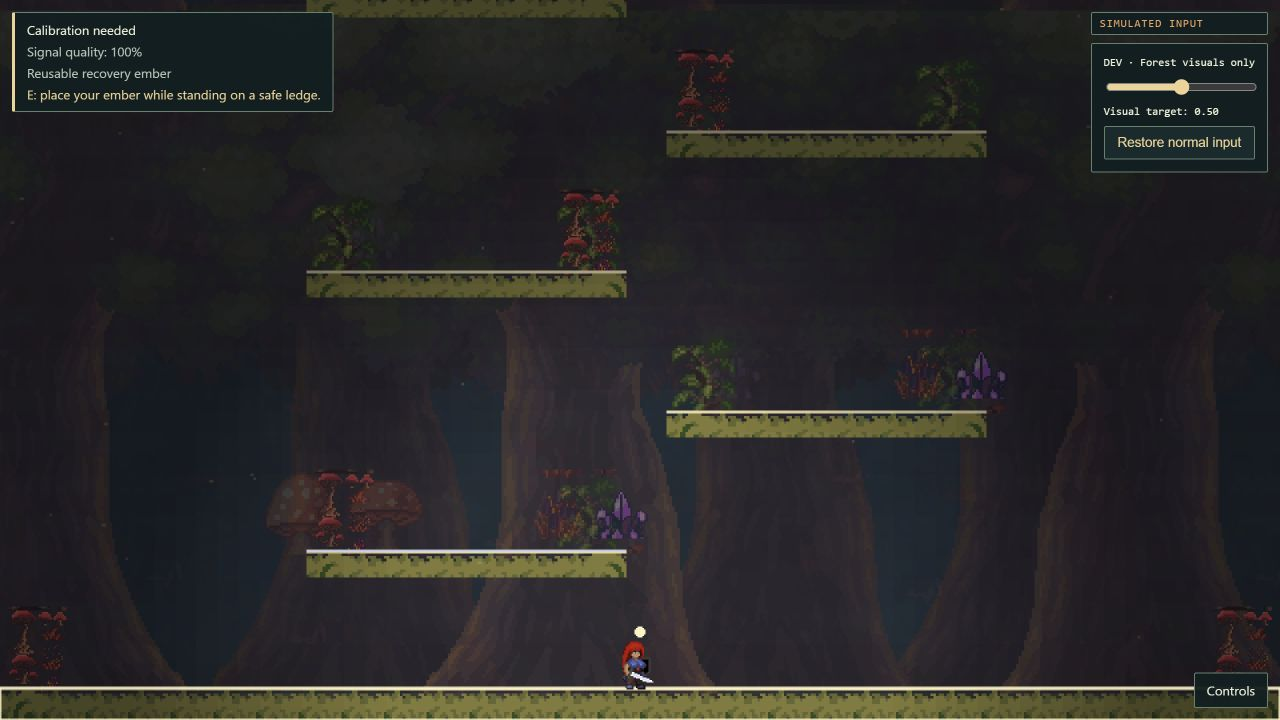
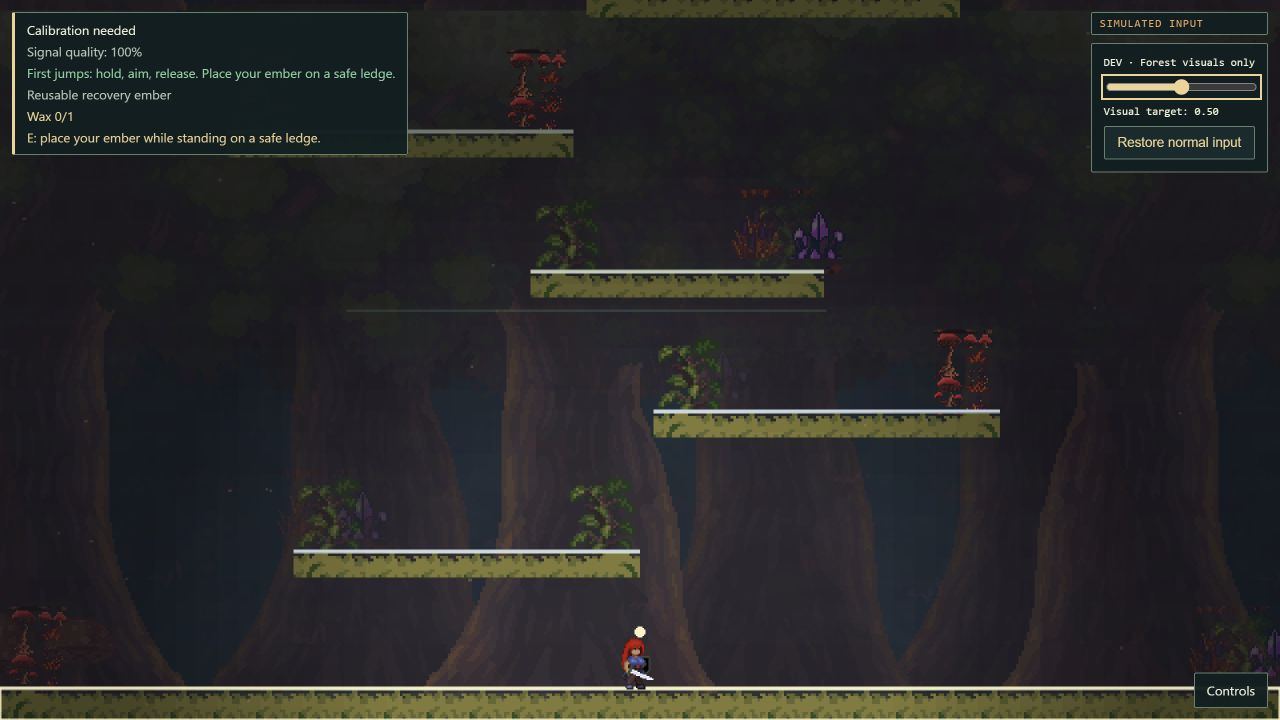
docs(forest): record visual QA, production checks and handoff

diff --git a/docs/agent-reports/20261115-0210-codex-forest-overhaul.md b/docs/agent-reports/20261115-0210-codex-forest-overhaul.md
@@ -1,0 +1,70 @@
+# After-job report: forest visual overhaul
+
+- Agent: codex (Neil Pawar / LordGlichter)
+- Branch and PR: codex/forest-overhaul, https://github.com/srishanb/hackthenest-chooms/pull/53
+- Phase and plan: docs/plans/forest-overhaul.md; explicit implementation request from Neil; D-22 advisory approval policy, no other lane owner's approval asserted.
+- Started and finished: existing claim/implementation commits through final QA approximately 02:10 Eastern, 2026-11-15; exact start time not recorded in this report.
+
+## 1. What I believe is complete
+
+| Acceptance test (from the plan) | Result | Confidence |
+|---|---|---|
+| Selected local art, source inventory, exact license and credits | Pass: 18 used textures, inventory and notices | High |
+| Forest terrain/scenery with unchanged collision geometry | Pass: renderer-only skins, same boxes and camera; moving ledges followed | High |
+| Continuous reversible corruption and neutral/settings policy | Pass: existing exponential effects engine, isolated dev override | High |
+| Coherent Ruby idle/run/charge/rise/fall/land, feet alignment | Pass: one inspected 64x48 set, original body untouched | High |
+| Existing UI palette/focus/responsive controls preserved | Pass: tutorial, pause, settings and 390x844 fit checked | High |
+| Movement/recovery/save flows remain functional | Pass: native keyboard jump/fall, E place/pickup, R return and reload | Medium |
+| Calm/quarter/half/three-quarter/full screenshots and performance | Pass: same camera/spawn; ~120 FPS observed | High for observed machine only |
+| Live hardware / complete run / other GPUs | Not attempted: no sensor session or target hardware available | Low |
+
+## 2. How I verified it
+
+| Check | Command or steps | Actual result |
+|---|---|---|
+| Typecheck and tests | npm run check, Bash on process PATH | Exit 0; 42 files, 277 tests |
+| Production bundle | npm run build | Exit 0; existing vendor/pieeg.js non-module warning |
+| Current level reachability | npm run check:levels | Exit 0; all five tutorial sections reachable |
+| Asset integrity | Compare SHA-256 to public/assets/forest/inventory.json | All 18 pass; 155,235 bytes |
+| Physics/signal preservation | git diff origin/main -- src/game/player src/game/save.ts src/signal src/content/sections | No task changes after upstream integration |
+| Visuals | In-app browser, native controls, screenshots at 1280x720 | Distinct continuous calm/corrupt states, visible character/landing rims |
+| Recovery/persistence | Place ember on first ledge, walk/fall, R, reload, E pickup/reload | Returned/restored ledge position; pickup clears saved anchor |
+| Accessibility/settings | Focus sliders; zero strength; reduced motion; pause/resume; 390x844 settings | Neutral 0.2; controls fit; diagnostic hidden during modal flows |
+| Performance | Phaser actualFps at calm/full corruption | 119.8–120.3 FPS (~8.3 ms cadence), no GPU profile |
+
+**Not verified:** Live Octopus/PiEEG, target demo hardware, other browser/GPU, complete timed traversal/finish interaction, audio listening, production deployment. Existing unit tests cover recovery, finish and environmental behavior; no claim that these replace a full human run.
+
+## 3. Problems, workarounds and dead ends
+
+- Dark Forest lacked a local license file. Verified both packs as downloads on the publisher's official Ancient Forest page under its project-use license; preserved evidence and the exact Ancient local notice. Imported only used textures.
+- Initial decorative dark plants were too tall; fit them to their healthy partner's height. End caps now repeat at the same 2x tile scale instead of stretching.
+- Diagnostic panel overlapped narrow settings; hide it while existing menus/dialogs are open. Recaptured responsive proof.
+- Windows tests initially lacked Bash on PATH. Added installed Git Bash to the test process PATH; no repository dependency/tooling change.
+- Native browser keyboard input was required for held gameplay keys; focusing body with a locator did not drive the intended input. Verified through the actual root keyboard route.
+- Upstream visibility/calibration and later wax/tutorial work merged during implementation. Combined scene hooks, preserved their modules, and attached forest skins/props to current simulated platform positions.
+- A local merge-resolution helper used unavailable `python` instead of installed `py`, leaving conflict markers in one local merge commit. The check immediately caught this; a new corrective commit removed them, and the complete check/build then passed. No history was rewritten and no broken intermediate state was pushed as ready.
+
+## 4. Deviations from the plan
+
+- Ruby uses 1x source pixels to fit the existing 24x36 collider; scenery uses 2x. No gameplay body expansion.
+- Added a minimal forest.syncPlatforms presentation hook for newly merged moving ledges; retained upstream green motion guide, ice rims and wind arrows. No environmental gameplay duplicated.
+- Source inventory metadata is committed for reuse; original packs remain in Downloads and are not published wholesale.
+
+## 5. Changes
+
+- Files changed: see PR diff. Notable: src/game/forest/*, forest.config.ts, effects.config.ts, BootScene/ClimbScene minimal hooks, world-view, existing UI tokens/styles/source-badge helper, public assets, CREDITS and docs/visual-design.md.
+- Contract/config-schema change: one forestCorruption EffectId/key, in its own small contract/config commit. All effect callers typecheck. Reuses existing engine and stores; no signal contract change.
+- New dependencies requested: None.
+- Edits outside Neil's lane: game presentation and minimal scene/preload integration; UI styling/dev-only helper; shared EffectId. Required by explicit overhaul request, overlaps recorded in plan and PR. No signal-owned debug overlay changes.
+- INDEX.md updated for new exports: Yes, game and UI.
+
+## 6. Follow-ups and questions for humans
+
+- [ ] Team: play a full run on the demo laptop; inspect moving ledges, wind/ice, finish/retry and recovery with the final team's build.
+- [ ] Srishan/team: verify a supervised live sensor session; no claim of live-input testing here.
+- [ ] Reviewer: review/merge PR #53; branch is preserved and no self-merge performed.
+
+## 7. Can a teammate explain this?
+
+The forest is a separate visual layer around our existing platform boxes and player. The same bounded effects engine gently blends healthy trees and plants into decayed scenery as valid intensity changes, while invalid input returns to a neutral look. A clearly labeled development slider changes only that appearance, so we can demonstrate it without changing recovery, movement or sensor processing.
+Production smoke check: built preview loaded cleanly with forestDemo=1, zero diagnostic panels, absent DEV attributes, no browser errors. Saved production.png. Both temporary PORT 3015 dev/preview servers stopped afterward; the original user's server was not touched.

diff --git a/docs/visual-design.md b/docs/visual-design.md
@@ -29,7 +29,7 @@ Lukya Forge: https://lukyaforge.itch.io/ancientforest . Ancient Forest 1.7 and D
 
 ## Cached source inventory
 
-The source PNG inventory was inspected once. Counts: Ancient 82, Dark 79. Selected mappings above are authoritative for this implementation; full source inventory is in the task scratch folder, not shipped.
+The source PNG inventory was inspected once. Counts: Ancient 82, Dark 79. Selected mappings above are authoritative for this implementation; the complete filename/dimension inventory is cached in docs/forest-source-inventory.json (metadata only; source packs are not shipped).
 
 ## Rendering, animation and policy
 
@@ -50,4 +50,20 @@ The normal source badge continues to identify simulator/live/replay/ordinary ass
 
 ## Integration overlaps
 
-Protected-visibility PR #51 merged during implementation; merged it normally and preserved its module/create/update hooks. Calibration-screen PR #52 merged and is preserved. Wax PR #50 is owned elsewhere: do not duplicate or alter its gameplay. Final sync/check details are recorded in the task report. No level data, physics modules, saves, ember logic or signal algorithms are edited.
+Protected-visibility PR #51 merged during implementation; merged it normally and preserved its module/create/update hooks. Calibration-screen PR #52 merged and is preserved. Wax/tutorial PR #50 also merged during final QA. Its authored motion, wind, ice, lesson copy, wax rewards and collision code are preserved. Forest tile/cap/prop positions now follow the existing simulated platform boxes; moving/ice rims and wind cues remain authoritative. Final sync/check details are recorded in the task report. No level data, physics modules, saves, ember logic or signal algorithms are edited.
+
+## Validation and screenshots
+
+- Final integration baseline: origin/main 2b275c8, including protected visibility (#51), calibration (#52), replay clock (#54), and tutorial/wax rewards (#50). No changes relative to that baseline in movement, collisions, section data, saves, recovery or signal processing.
+- `npm run check`: 42 test files / 277 tests pass, including five focused forest policy/determinism/frame-rate tests. `npm run build` passes. Existing vendor/pieeg.js non-module warning remains. `npm run check:levels`: all five current tutorial sections reachable.
+- SHA-256 inventory audit passes for all 18 imported PNGs (155,235 bytes). Resources load from local assets; no new runtime network integration or dependencies.
+- Browser QA at 1280x720: real keyboard walk/charge/jump/fall/land, E placement/pickup, R return to an ember on a ledge, and reload restoring its saved position. Controls tutorial, pause/resume, settings focus and sliders work. At 390x844 the settings fit with keyboard controls intact; the dev panel hides behind menus/dialogs to avoid overlap.
+- Effect-strength zero returns the visual row to neutral 0.2. Reduced motion stops atmospheric drift and preserves smooth color interpolation. Restoring normal input visibly removes the override. Unit checks cover invalid/fixed/zero-strength policy, independent preview behavior, 30/60/144 Hz recovery and alternating-target smoothing.
+- Available-machine observed FPS: 119.8–120.3 at calm/full corruption (roughly 8.3 ms frame cadence). This is Phaser's loop FPS, not a GPU timing/profile or target-hardware guarantee. Scenery is bounded at 72 prop pairs and 24 spores; textures load once.
+- Screenshots in `docs/screenshots/forest/`: calm, quarter, half, three-quarter, corrupted share the spawn/camera location; a moving ledge may occupy different points on its authored cycle. Pause, settings, mobile-settings and tutorial document existing UI flows. Ember-return shows the successful ledge recovery/reload before the tutorial/wax integration; those recovery modules are unchanged.
+
+## Known limits
+
+No live PiEEG/headset session, other GPU/browser, full timed climb, audio listening pass, or target demo laptop was tested. The current title/start flow remains the existing one; no new title/death screen was invented. Selected Dark Forest plants use compatible height fitting rather than exact paired animation sheets. Ruby uses one coherent Ancient set. Existing later-level layouts and physics remain the team's responsibility; the level reachability script checks the currently active tutorial set.
+
+Production preview verified locally with ?forestDemo=1: no diagnostic panel, no DEV canvas attributes, no browser errors; the query is ignored. Both temporary 3015 servers were stopped after QA. No deployment performed.
